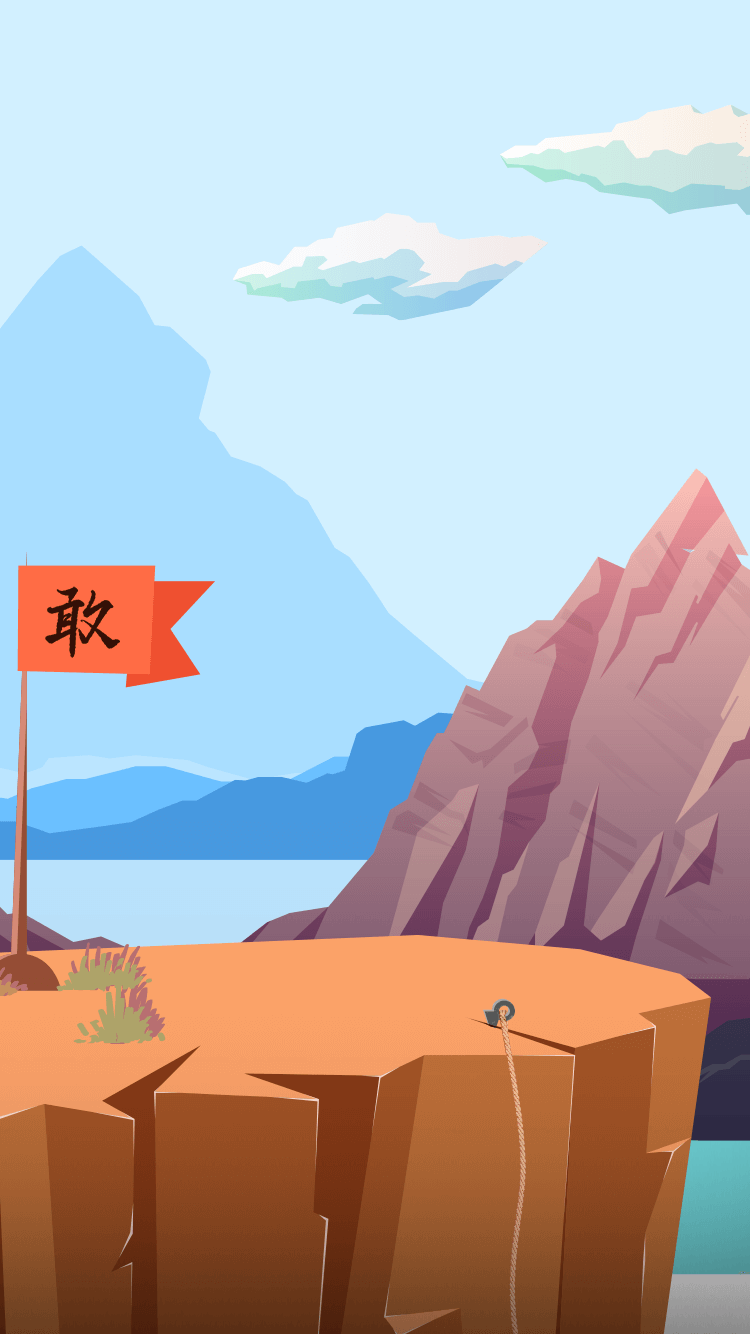
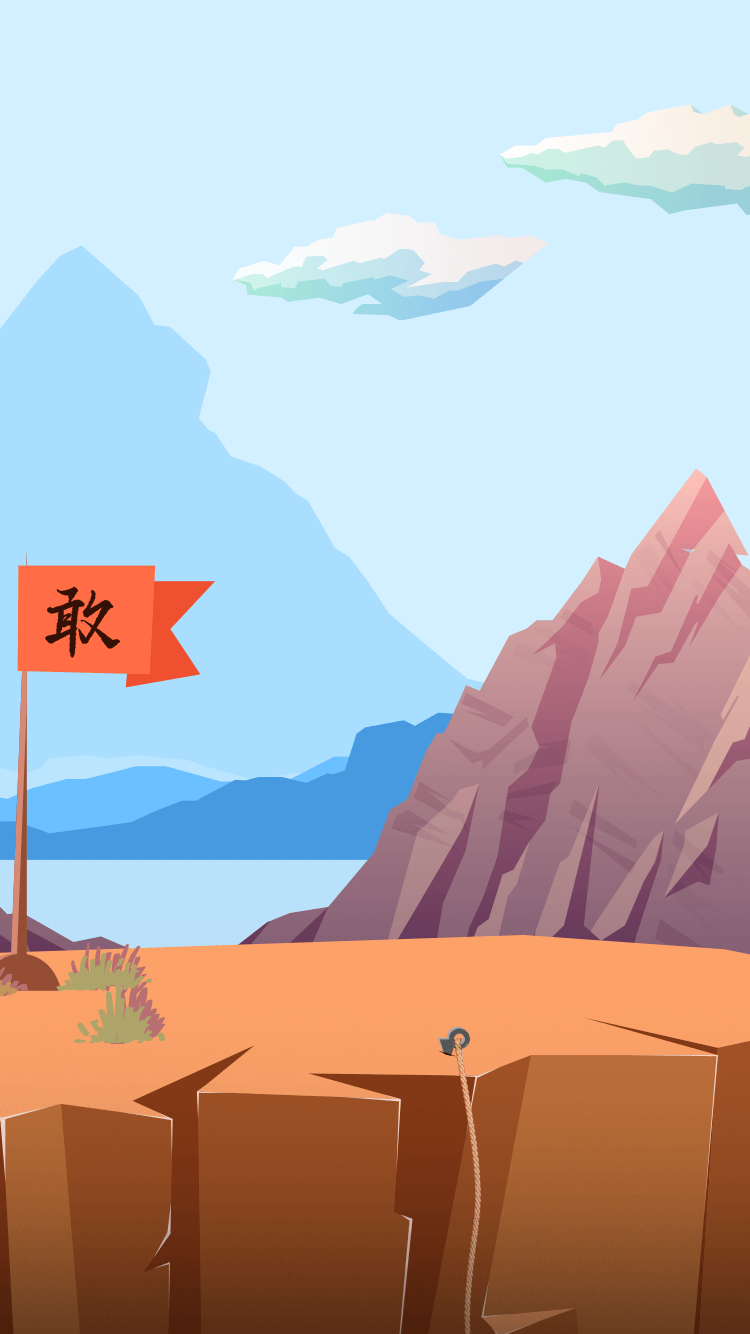
'单个背景切换改为4个背景切换'

Changed region(s): [[0.3373, 0.6762, 1.0, 1.0], [0.1227, 0.7684, 0.3373, 0.9528], [0.0, 0.8298, 0.092, 1.0]]

diff --git a/index.html b/index.html
@@ -24,7 +24,6 @@
         }
 
         html, body {
-            -ms-touch-action: none;
             font-family: 'MyFont', serif;
             background: #888888;
             padding: 0;
@@ -35,11 +34,8 @@
         }
 
         .egret-player, #htmlBox {
-            background: url(./resource/assets/bg.png) no-repeat;
-            background-size: 100% 100%;
             width: 100%;
             height: 100%;
-            transition: background .5s;
         }
 
         .egret-player .mask {
@@ -53,6 +49,8 @@
         }
 
         #htmlBox {
+            background: url('./resource/assets/bg.png') no-repeat;
+            background-size: 100% 100%;
             position: absolute;
             z-index: 1;
             display: none;
@@ -192,6 +190,43 @@
             top: 50%;
             transform: translate(-50%, -50%);
         }
+
+        .bgArr {
+            position: absolute;
+            width: 100%;
+            height: 100%;
+            left: 0;
+            top: 0;
+        }
+
+        .bgArr ul {
+            width: 100vw;
+            height: 100%;
+        }
+
+        .bgArr li {
+            width: 100vw;
+            height: 100%;
+            display: none;
+            background-repeat: no-repeat;
+            background-size: 100% 100%;
+        }
+
+        .bgArr li:nth-child(1) {
+            background-image: url('./resource/assets/bg.png');
+        }
+
+        .bgArr li:nth-child(2) {
+            background-image: url('./resource/assets/bg2.png');
+        }
+
+        .bgArr li:nth-child(3) {
+            background-image: url('./resource/assets/bg3.png');
+        }
+
+        .bgArr li:nth-child(4) {
+            background-image: url('./resource/assets/bg4.png');
+        }
     </style>
 </head>
 
@@ -206,6 +241,14 @@
          data-multi-fingered="2"
          data-show-fps="false" data-show-log="false"
          data-show-fps-style="x:0,y:0,size:12,textColor:0xffffff,bgAlpha:0.9">
+         <div class="bgArr">
+            <ul>
+                <li></li>
+                <li></li>
+                <li></li>
+                <li></li>
+             </ul>
+         </div>
          <div id="htmlBox">
             <div>
                 <img src="./resource/assets/home/title.png" alt="">
@@ -337,20 +380,15 @@
                     if (data.data.level_id == 0) {
                         // 新用户
                         $('#htmlBox').show()
-                        window.localStorage.setItem('bgClass', null)
+                        window.localStorage.setItem('bgArrIndex', null)
                     } else {
                         // 老用户
                         $('#htmlBox').hide()
                     }
                     // 设置默认背景
-                    var bgClass = JSON.parse(window.localStorage.getItem('bgClass'))
-                    if (bgClass) {
-                        $('.' + bgClass).parent().addClass('active')
-                        var url = $('.' + bgClass).attr('src')
-                        $('.egret-player').css('backgroundImage', `url(${url})`)
-                    } else {
-                        $('.bg').parent().addClass('active')
-                    }
+                    var bgArrIndex = JSON.parse(window.localStorage.getItem('bgArrIndex')) || 0
+                    $('.bgArr li').eq(bgArrIndex).show()
+                    $('.decorate .item').eq(bgArrIndex).addClass('active')
                 }
             })
 
@@ -456,16 +494,14 @@
             $('.mask').hide()
         })
 
-        $('.decorate .list').click(function(e) {
-            var bgClass = e.target.getAttribute('class')
-            if (userScore < 50 || bgClass == 'lock') return
-            if (e.target.tagName == 'IMG') {
-                $('.decorate .item').removeClass('active')
-                $(e.target.parentElement).addClass('active')
-                var src = e.target.getAttribute('src')
-                $('.egret-player').css('backgroundImage', `url(${src})`)
-                window.localStorage.setItem('bgClass', JSON.stringify(bgClass))
-            }
+        $('.decorate .list .item').each(function(i, ele) {
+            $(ele).click(function(e) {
+                var bgClass = e.target.getAttribute('class')
+                if (!bgClass || !bgClass.startsWith('bg')) return
+                $('.decorate .item').removeClass('active').eq(i).addClass('active')
+                $('.bgArr li').hide().eq(i).show()
+                window.localStorage.setItem('bgArrIndex', i)
+            })
         })
     </script>
 </body>

diff --git a/template/web/index.html b/template/web/index.html
@@ -24,7 +24,6 @@
         }
 
         html, body {
-            -ms-touch-action: none;
             font-family: 'MyFont', serif;
             background: #888888;
             padding: 0;
@@ -35,11 +34,8 @@
         }
 
         .egret-player, #htmlBox {
-            background: url(./resource/assets/bg.png) no-repeat;
-            background-size: 100% 100%;
             width: 100%;
             height: 100%;
-            transition: background .5s;
         }
 
         .egret-player .mask {
@@ -53,6 +49,8 @@
         }
 
         #htmlBox {
+            background: url('./resource/assets/bg.png') no-repeat;
+            background-size: 100% 100%;
             position: absolute;
             z-index: 1;
             display: none;
@@ -192,6 +190,43 @@
             top: 50%;
             transform: translate(-50%, -50%);
         }
+
+        .bgArr {
+            position: absolute;
+            width: 100%;
+            height: 100%;
+            left: 0;
+            top: 0;
+        }
+
+        .bgArr ul {
+            width: 100vw;
+            height: 100%;
+        }
+
+        .bgArr li {
+            width: 100vw;
+            height: 100%;
+            display: none;
+            background-repeat: no-repeat;
+            background-size: 100% 100%;
+        }
+
+        .bgArr li:nth-child(1) {
+            background-image: url('./resource/assets/bg.png');
+        }
+
+        .bgArr li:nth-child(2) {
+            background-image: url('./resource/assets/bg2.png');
+        }
+
+        .bgArr li:nth-child(3) {
+            background-image: url('./resource/assets/bg3.png');
+        }
+
+        .bgArr li:nth-child(4) {
+            background-image: url('./resource/assets/bg4.png');
+        }
     </style>
 </head>
 
@@ -206,6 +241,14 @@
          data-multi-fingered="2"
          data-show-fps="false" data-show-log="false"
          data-show-fps-style="x:0,y:0,size:12,textColor:0xffffff,bgAlpha:0.9">
+         <div class="bgArr">
+            <ul>
+                <li></li>
+                <li></li>
+                <li></li>
+                <li></li>
+             </ul>
+         </div>
          <div id="htmlBox">
             <div>
                 <img src="./resource/assets/home/title.png" alt="">
@@ -336,20 +379,15 @@
                     if (data.data.level_id == 0) {
                         // 新用户
                         $('#htmlBox').show()
-                        window.localStorage.setItem('bgClass', null)
+                        window.localStorage.setItem('bgArrIndex', null)
                     } else {
                         // 老用户
                         $('#htmlBox').hide()
                     }
                     // 设置默认背景
-                    var bgClass = JSON.parse(window.localStorage.getItem('bgClass'))
-                    if (bgClass) {
-                        $('.' + bgClass).parent().addClass('active')
-                        var url = $('.' + bgClass).attr('src')
-                        $('.egret-player').css('backgroundImage', `url(${url})`)
-                    } else {
-                        $('.bg').parent().addClass('active')
-                    }
+                    var bgArrIndex = JSON.parse(window.localStorage.getItem('bgArrIndex')) || 0
+                    $('.bgArr li').eq(bgArrIndex).show()
+                    $('.decorate .item').eq(bgArrIndex).addClass('active')
                 }
             })
 
@@ -455,16 +493,14 @@
             $('.mask').hide()
         })
 
-        $('.decorate .list').click(function(e) {
-            var bgClass = e.target.getAttribute('class')
-            if (userScore < 50 || bgClass == 'lock') return
-            if (e.target.tagName == 'IMG') {
-                $('.decorate .item').removeClass('active')
-                $(e.target.parentElement).addClass('active')
-                var src = e.target.getAttribute('src')
-                $('.egret-player').css('backgroundImage', `url(${src})`)
-                window.localStorage.setItem('bgClass', JSON.stringify(bgClass))
-            }
+        $('.decorate .list .item').each(function(i, ele) {
+            $(ele).click(function(e) {
+                var bgClass = e.target.getAttribute('class')
+                if (!bgClass || !bgClass.startsWith('bg')) return
+                $('.decorate .item').removeClass('active').eq(i).addClass('active')
+                $('.bgArr li').hide().eq(i).show()
+                window.localStorage.setItem('bgArrIndex', i)
+            })
         })
     </script>
 </body>

diff --git a/src/scene/GetBoxScene.ts b/src/scene/GetBoxScene.ts
@@ -7,7 +7,8 @@ class GetBoxScene extends Scene {
     }
 
     public init() {
-        let bgName = JSON.parse(window.localStorage.getItem('bgClass')) || 'bg'
+        let bgArrIndex = JSON.parse(window.localStorage.getItem('bgArrIndex')) || 0
+        let bgName = bgArrIndex == 0 ? 'bg' : 'bg' + (bgArrIndex + 1)
         let sceneBg = Util.createBitmapByName(bgName)
         sceneBg.width = this.stage.stageWidth
         sceneBg.height = this.stage.stageHeight
